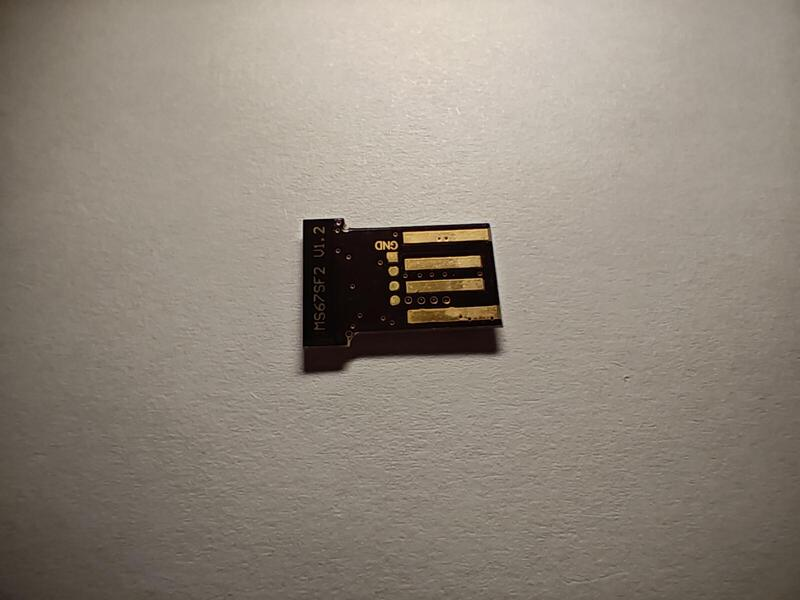
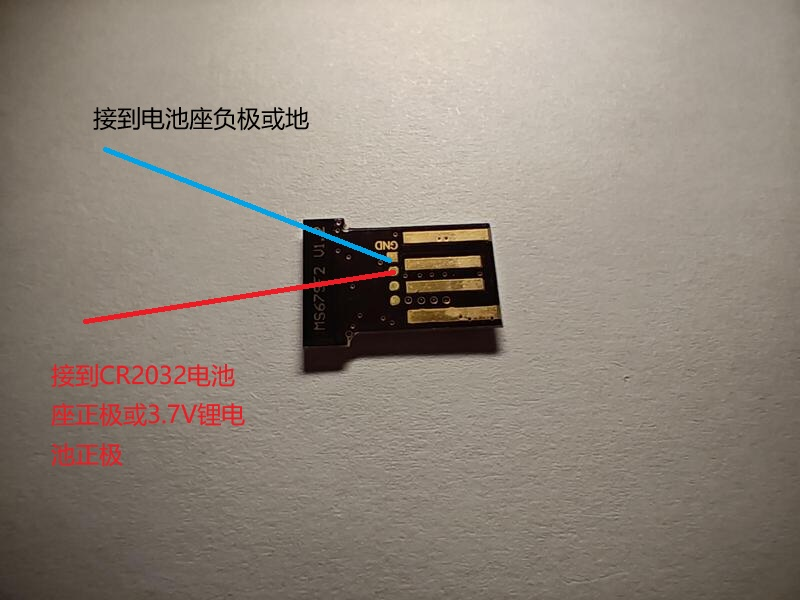
mini tag 使用说明

diff --git a/usr_guide/Mini_TAG.md b/usr_guide/Mini_TAG.md
@@ -1,0 +1,54 @@
+# 迷你版Tag使用说明
+## 准备工具
+
+- 电烙铁一个
+- 焊锡丝松香若干
+
+## 接线
+
+拆开车钥匙，找到电池座或其他电源，注意电压不要超过4.5V
+
+![](../asset/MINI_1.jpeg)
+
+背面按图示进行接线，确保正负极不要接反
+
+![](../asset/MINI_2.jpeg)
+
+## NinjiaTag Web端使用教程
+
+打开浏览器，访问[NinjiaTagPage](https://bd8cca.atomgit.net/NinjiaTagPage/)，建议收藏页面或添加到桌面图标方便访问
+
+## 配置服务器地址
+以手机网页端为例，在页面右上角有一个配置服务器按钮，输入你自己部署的数据查询服务 url 地址" 形如 `http://服务器ip:3000/query` 或使用我发给你的服务器地址填入，保存。
+
+![](../asset/page1.jpg)
+
+
+## 导入密钥
+
+点击页面左下角“物品管理”按钮，在弹出的对话框中，选择解析JSON密钥文件按钮
+
+![](../asset/page2.jpg)
+
+在弹出的对话框中，上传.json后缀的密钥文件（这个文件是我提供给你的文件里面的"_devices.json"后缀文件，或者由你自己烧录固件时生成）
+
+![](../asset/page3.jpg)
+
+上传完成，在对话框最下面选择“确认使用数据”保存密钥
+
+在“物品管理”对话框，点刷新按钮，如果能出现最新更新日期，则说明能正常获取到位置数据。
+如果没有获取到或显示空，则需要带着Tag到人流量大的地方走一圈，等待后台数据刷新。
+
+## 选择物品并查询轨迹
+
+点击主页面右下角```数据选择```按钮，在对话框选择物品数据和时间段进行查询，有几个选项：
+  
+- 轨迹点：历史的轨迹，鼠标悬停或点击可显示详情。
+
+- 热图： 类似地理信息系统的人流密度显示，经常去过的地方颜色更深，不去或偶尔去的地方颜色浅。
+  
+- 最新位置： 最新的物品位置，以图标的形式显示。
+
+如果没有获取到位置数据，带着diy的NinjiaTag到人流密集的地方走一圈，等待后台服务器获取到位置数据库并存入数据库。
+
+
